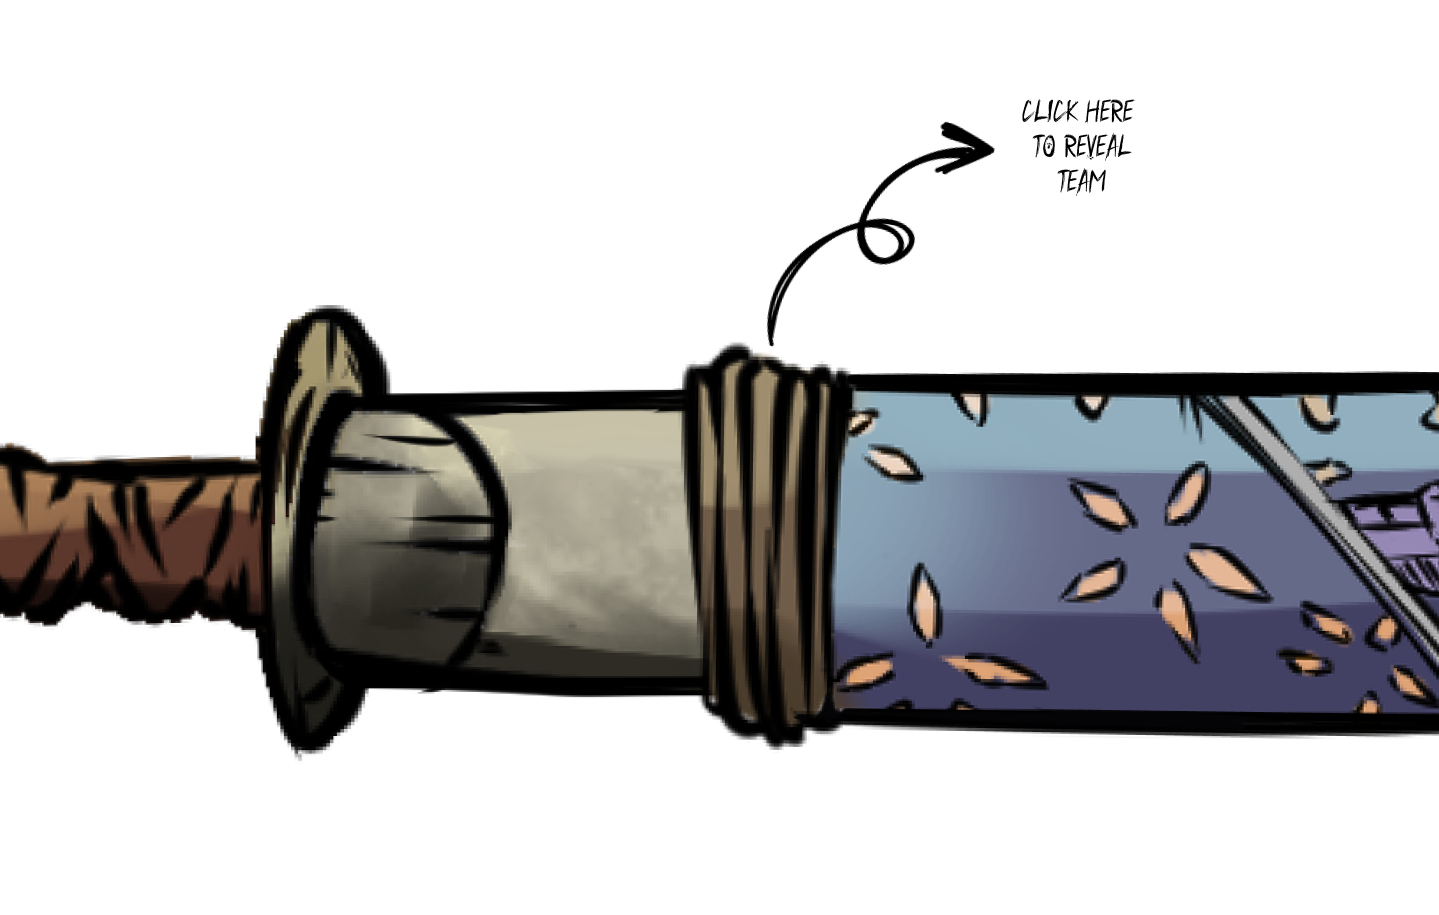
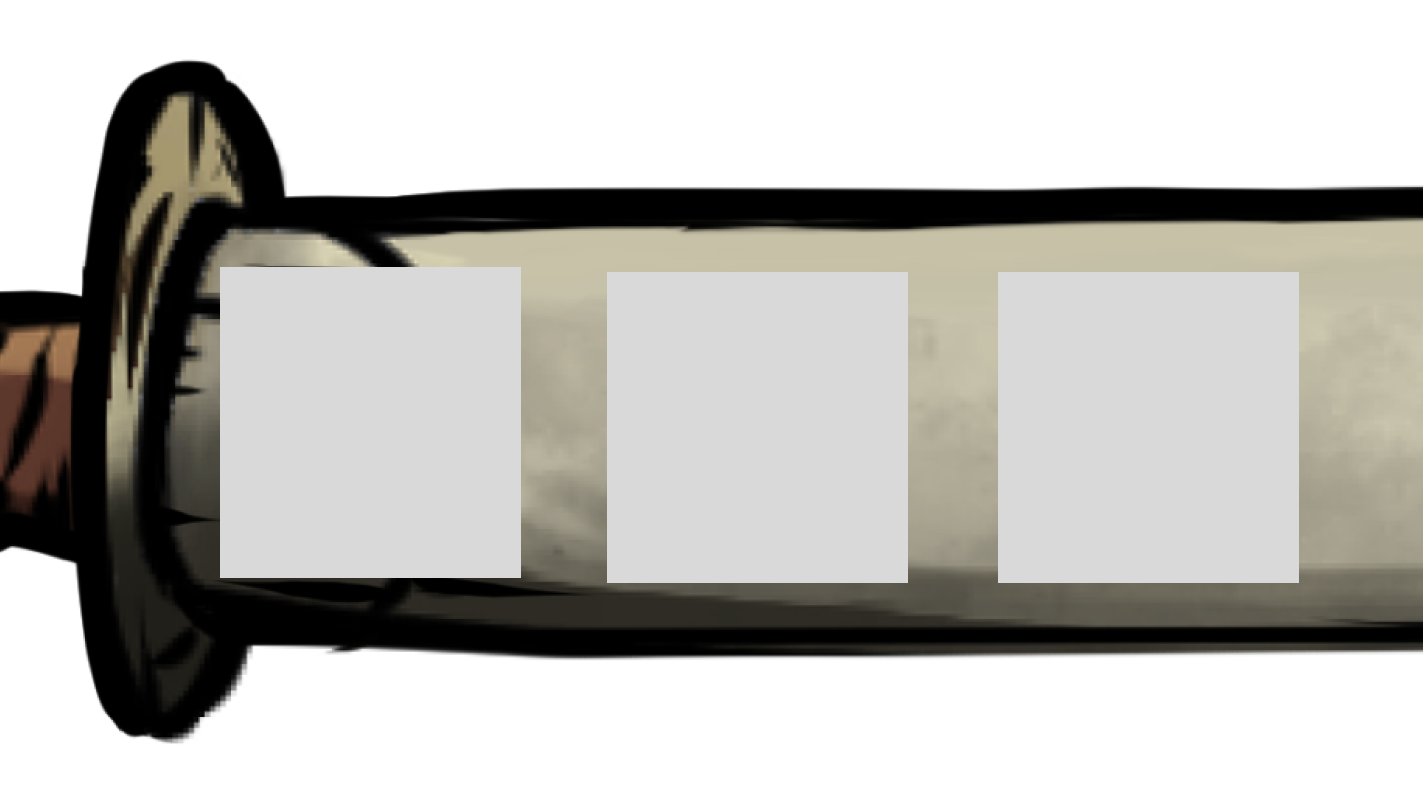
Version 1.0 with sword fixes

diff --git a/asset/style.css b/asset/style.css
@@ -7,6 +7,45 @@
 html {
   scroll-behavior: smooth;
 }
+/* animation left to right */
+#slidess {
+  position: relative;
+  left: 32vh;
+  top:-62vh;
+  width: 1000px;
+  height: 500px;
+  transition: 1s;
+  border: 3px soild red;
+}
+.sword_back{
+  height: 400px;
+  object-fit: fill;
+}
+.sword_cover{
+  height: 400px;
+  object-fit: fill;
+  width: 1400px;
+}
+.wrapperss:hover #slidess {
+  transition: 2s;
+  left: 200vh; /* SET THE SLIDER TO BE 0 */
+
+}
+@keyframes slideInUp {
+  from {
+    transform: translate3d(0, 100%, 0);
+    visibility: visible;
+  }
+
+  to {
+    transform: translate3d(0, 0, 0);
+  }
+}
+
+.slideInUp {
+  animation-name: slideInUp;
+}
+/* animation left to right */
 /* Navbar start */
 .fade-lefts {
   animation: fade-left ease 10s;

diff --git a/index.html b/index.html
@@ -92,7 +92,9 @@
             </div>
             <div class="row reveal fade-top">
                 <div class="col-md-12 iamge_ad">
-                    <img src="asset/images/sword.png" class="cloud_c" alt="cloud">
+                    <div class="wrapperss"> <img src="asset/images/sword.png" class="sword_back" alt="cloud">
+                        <div id="slidess"><img src="asset/images/swordcover.png" class="sword_cover" alt="cloud">
+                    </div>
                 </div>
                 </div>
                 <div class="row reveal fade-top">
@@ -101,6 +103,9 @@
                     </div>
                     </div>
             </div>
+            
+          
+            
         </section>
 </body>
 <script>
